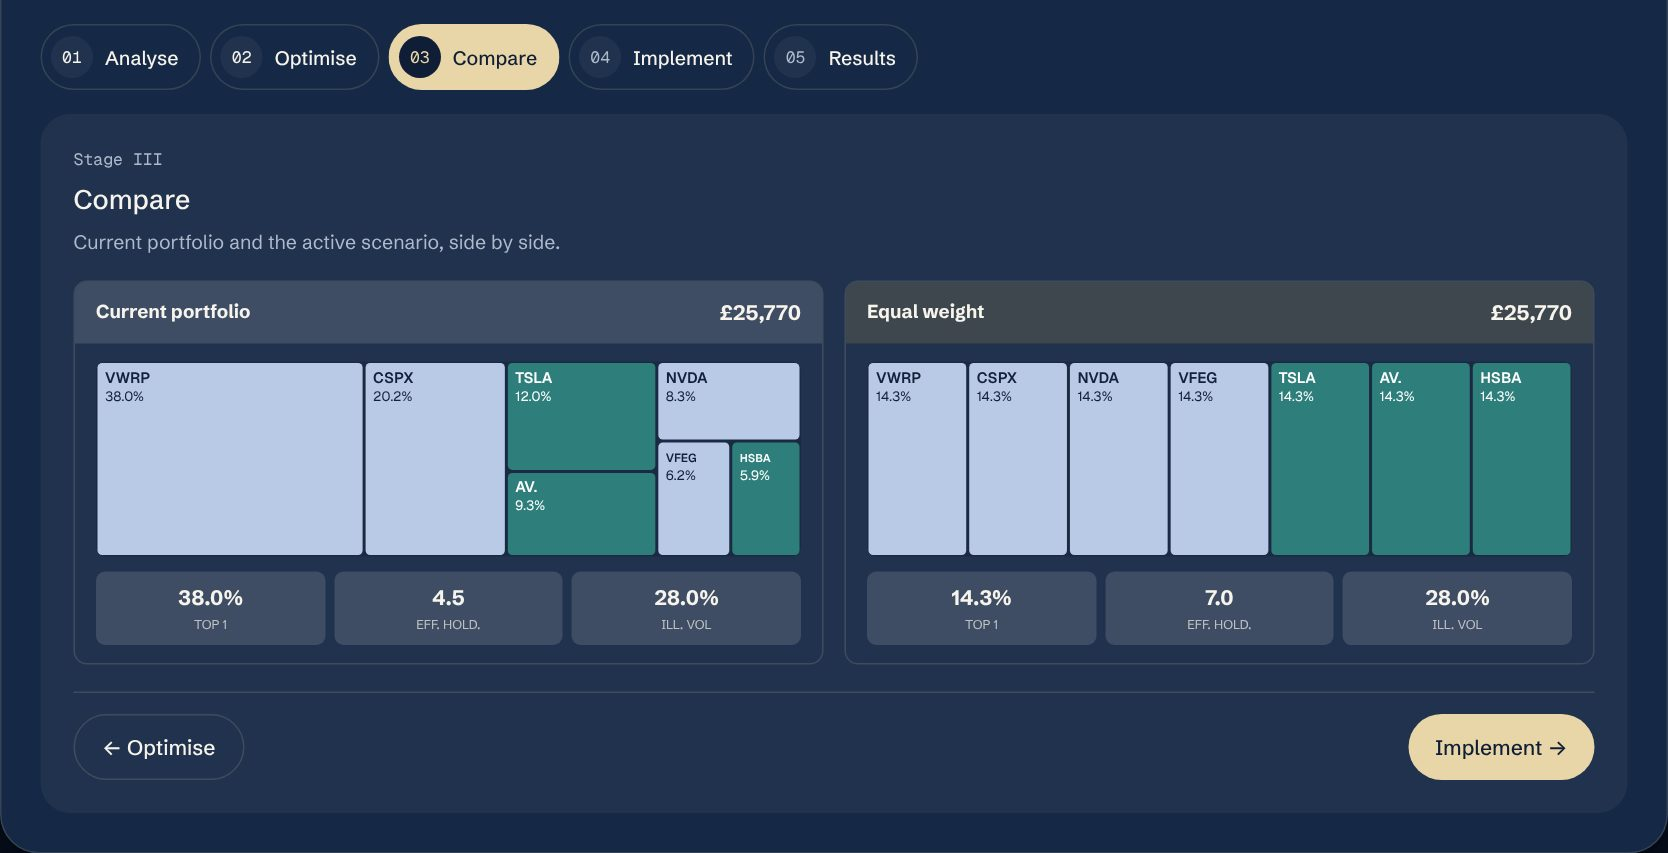
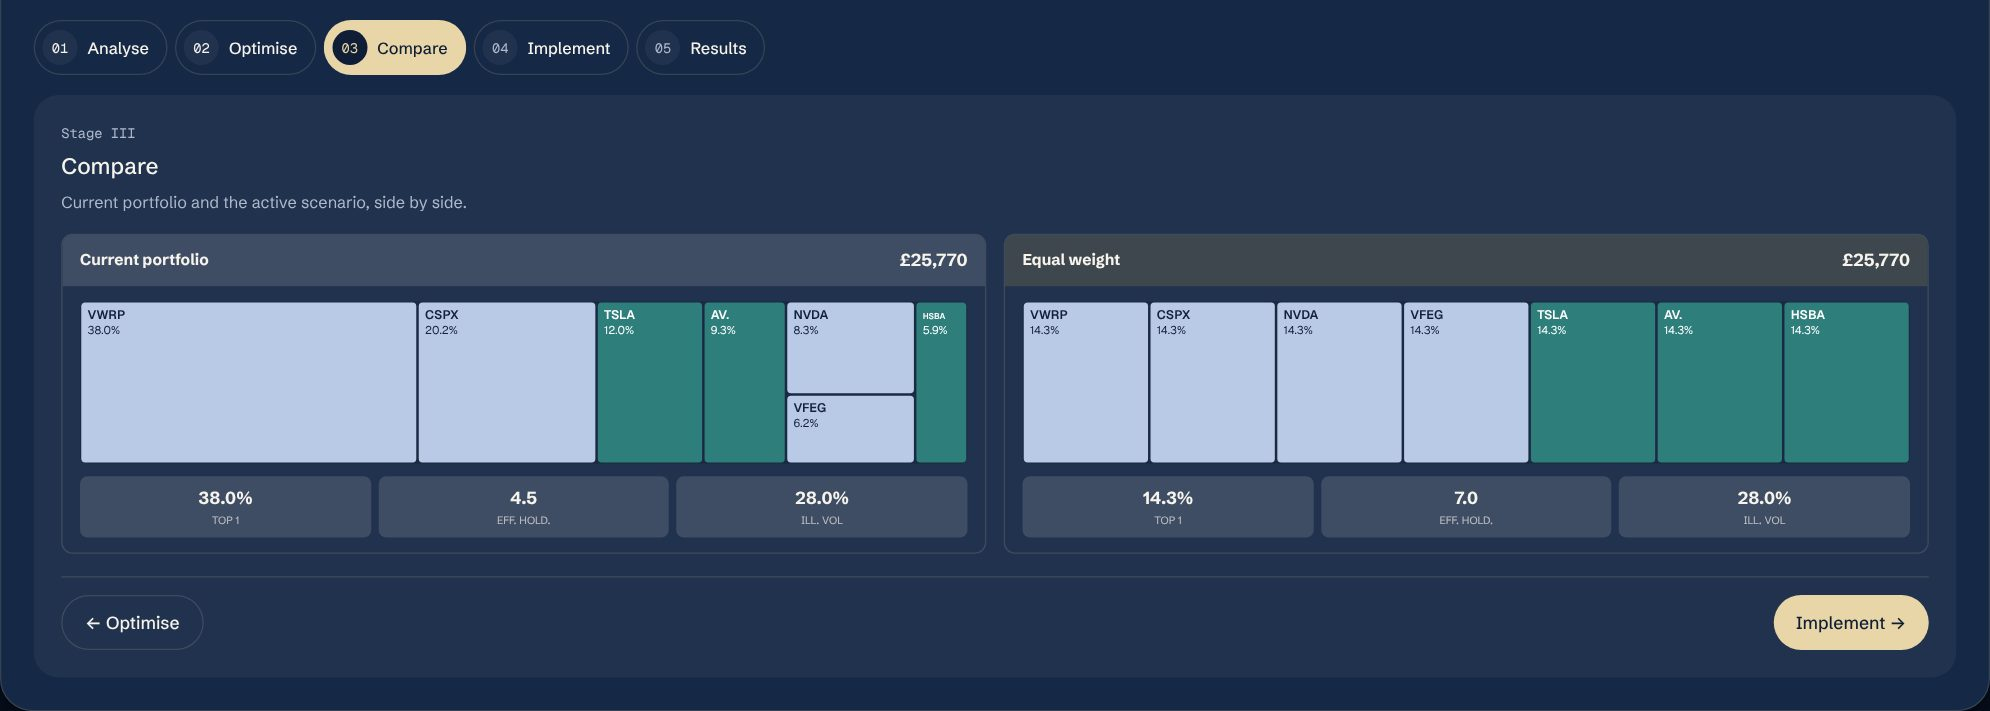
Membership mock: Lab scaled to fit its frame; phone headings carry the sections
Desktop Lab captured in a 1920px window so more of each stage fits. On
phones the section subtext goes and headings step up; the previews take
the room freed.

Claude-Session: https://claude.ai/code/session_015wx5T2UNnK6UZJXUcDhYM1

diff --git a/mock/membership/index.html b/mock/membership/index.html
@@ -275,11 +275,11 @@
 <figure class="mm-win mm-win-d">
 <div class="mm-win-bar" aria-hidden="true"><span class="mm-dots"><i></i><i></i><i></i></span><span class="mm-win-t">Wealth OS · Portfolio Lab</span></div>
 <div class="mm-scroll" tabindex="0" role="region" aria-label="Portfolio Lab, scrolls">
-<img src="/mock/membership/img/lab-analyse-desk.jpg" data-st="analyse" width="1668" height="2220" alt="Portfolio Lab, Analyse: a treemap of an invented portfolio, with the top holdings' weights and how far each would have to move to shift the total by 1%." loading="lazy">
-<img src="/mock/membership/img/lab-optimise-desk.jpg" data-st="optimise" width="1668" height="1990" alt="Portfolio Lab, Optimise: presets such as equal weight, with the target weights for each holding." loading="lazy" hidden>
-<img src="/mock/membership/img/lab-compare-desk.jpg" data-st="compare" width="1668" height="853" alt="Portfolio Lab, Compare: the current portfolio and the equal weight scenario side by side." loading="lazy" hidden>
-<img src="/mock/membership/img/lab-implement-desk.jpg" data-st="implement" width="1668" height="884" alt="Portfolio Lab, Implement: the sales and purchases the scenario would take, and a note on ISA allowances." loading="lazy" hidden>
-<img src="/mock/membership/img/lab-results-desk.jpg" data-st="results" width="1668" height="1841" alt="Portfolio Lab, Results: what the scenario changes, in plain words and before and after figures." loading="lazy" hidden>
+<img src="/mock/membership/img/lab-analyse-desk.jpg" data-st="analyse" width="1990" height="1828" alt="Portfolio Lab, Analyse: a treemap of an invented portfolio, with the top holdings' weights and how far each would have to move to shift the total by 1%." loading="lazy">
+<img src="/mock/membership/img/lab-optimise-desk.jpg" data-st="optimise" width="1990" height="1658" alt="Portfolio Lab, Optimise: presets such as equal weight, with the target weights for each holding." loading="lazy" hidden>
+<img src="/mock/membership/img/lab-compare-desk.jpg" data-st="compare" width="1990" height="711" alt="Portfolio Lab, Compare: the current portfolio and the equal weight scenario side by side." loading="lazy" hidden>
+<img src="/mock/membership/img/lab-implement-desk.jpg" data-st="implement" width="1990" height="736" alt="Portfolio Lab, Implement: the sales and purchases the scenario would take, and a note on ISA allowances." loading="lazy" hidden>
+<img src="/mock/membership/img/lab-results-desk.jpg" data-st="results" width="1990" height="1534" alt="Portfolio Lab, Results: what the scenario changes, in plain words and before and after figures." loading="lazy" hidden>
 </div>
 </figure>
 <div class="mm-phone mm-phone-tool">

diff --git a/mock/membership/capture-tools.js b/mock/membership/capture-tools.js
@@ -1,12 +1,13 @@
 /* Tools captures for the Membership mock-up: the Portfolio Lab's five
-   stages and the full Forecast page, from the live Wealth OS code run on
+   stages, from the live Wealth OS code run on
    the test-only demo client (scripts/wos-demo: Sam Taylor, sample figures,
    never a real record). No login and no live database.
 
    Run from the repo root, with the repo served on :8080:
      node mock/membership/capture-tools.js
-   Writes mock/membership/img/lab-<stage>-{desk,phone}.jpg and
-   fc-{desk,phone}.jpg. Reduced motion, so every chart is at its end state.
+   Writes mock/membership/img/lab-<stage>-{desk,phone}.jpg. Desktop is
+   captured in a 1920px window, so the Lab spreads out and more of each
+   stage fits the page's frame (Paddy, 22 Nov 2026). Reduced motion, so every chart is at its end state.
    The Lab works through the Equal weight preset so Compare, Implement and
    Results show a real scenario. */
 const fs = require('fs');
@@ -44,19 +45,13 @@ async function shot(el, file) {
 
 async function run(browser, dev) {
   const desk = dev === 'desk';
-  const ctx = await browser.newContext({ viewport: desk ? { width: 1440, height: 900 } : { width: 390, height: 844 },
-    deviceScaleFactor: desk ? 1.5 : 2, reducedMotion: 'reduce', colorScheme: 'dark' });
+  const ctx = await browser.newContext({ viewport: desk ? { width: 1920, height: 1200 } : { width: 390, height: 844 },
+    deviceScaleFactor: desk ? 1.25 : 2, reducedMotion: 'reduce', colorScheme: 'dark' });
   await ctx.route(/\/hub\/js\/supabase-config\.js/, (r) => r.fulfill({ contentType: 'text/javascript', body: DEMO }));
   const page = await ctx.newPage();
   await page.goto(BASE + '/hub/wealth-os.html', { waitUntil: 'networkidle' });
   await page.addStyleTag({ content: HIDE });
   await page.evaluate(() => document.fonts && document.fonts.ready);
-
-  // Full Forecast page (the page body only, no sidebar).
-  await page.evaluate(() => TEI.app.showPage('planning'));
-  await page.waitForTimeout(1200);
-  await swapNames(page);
-  await shot(await page.$('#page-planning'), path.join(OUT, 'fc-' + dev + '.jpg'));
 
   // The Lab, stage by stage. Desktop: Analyse shows the whole tile (treemap
   // first) and the others start at the row of stage tabs. Phone: the Lab

diff --git a/mock/membership/mock.css b/mock/membership/mock.css
@@ -979,3 +979,22 @@ body.mm-member .mm-ct th[data-k="mom"] .mm-yours { display: inline-block; }
   .mm-cov-more { display: none; }
 }
 @media (max-width: 860px) { .mm-th li:last-child:nth-child(odd) { grid-column: 1 / -1; } }
+
+/* Phone headings (pass 4): no subtext under section headings, so the
+   heading carries the section; headings a step larger. */
+@media (max-width: 860px) {
+  .mm-sec:not(.mm-hero) .mm-head .g-lede { display: none; }
+  .mm-head .ab-h { font-size: 30px; line-height: 1.12; }
+  .mm-big { font-size: 44px; }
+  .mm-head { margin-bottom: 20px; }
+}
+@media (max-width: 380px) { .mm-head .ab-h { font-size: 27px; } }
+/* With the subtext gone on phones, the previews take the room. */
+@media (max-width: 860px) {
+  .mm-phone-wos { --pw: min(64vw, calc((var(--mm-avail) - 210px) * .48), 300px); }
+  .mm-phone-chat { --pw: min(70vw, calc((var(--mm-avail) - 160px) * .48), 320px); }
+  .mm-phone-tool .mm-phone-scr { height: clamp(240px, calc(var(--mm-avail) - 350px), 460px); }
+  .mm-vid { max-width: min(100%, calc((var(--mm-avail) - 350px) * 1.6)); }
+  .mm-win-v { max-width: min(100%, calc((var(--mm-avail) - 370px) * 1.5)); }
+}
+@media (max-width: 860px) { .mm-phone-chat { --pw: min(70vw, calc((var(--mm-avail) - 230px) * .48), 320px); } }
